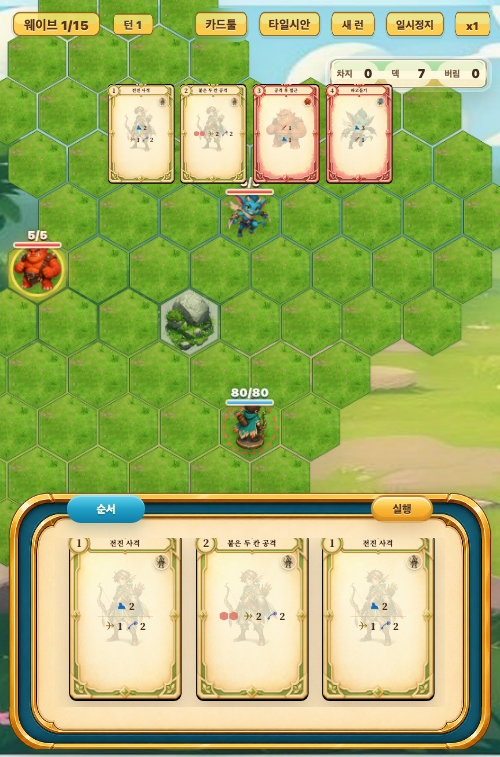
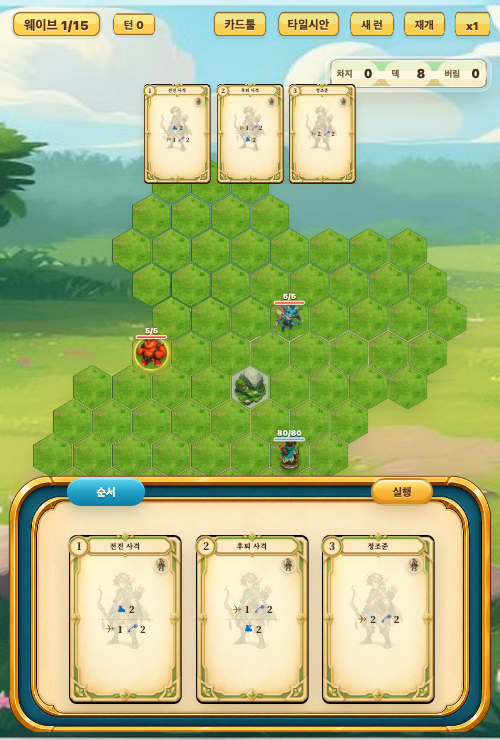
Center planner cards in board panel

diff --git a/styles.css b/styles.css
@@ -5021,6 +5021,8 @@ body {
   --planner-card-scale: 0.2;
   --planner-card-width: calc(512px * var(--planner-card-scale));
   --planner-card-height: calc(768px * var(--planner-card-scale));
+  --planner-card-slot-height: calc(var(--planner-card-height) + 22px);
+  --planner-card-offset-y: 6px;
   --planner-border-top: 52px;
   --planner-border-x: 54px;
   --planner-border-bottom: 46px;
@@ -5122,12 +5124,13 @@ body {
   z-index: 1;
   display: flex;
   gap: 8px;
-  align-items: flex-end;
+  align-items: center;
   justify-content: center;
   overflow-x: auto;
-  height: var(--planner-card-height);
-  min-height: var(--planner-card-height);
-  padding: 0 4px;
+  overflow-y: hidden;
+  height: var(--planner-card-slot-height);
+  min-height: var(--planner-card-slot-height);
+  padding: var(--planner-card-offset-y) 4px 0;
   scrollbar-width: none;
 }
 

diff --git a/index.html b/index.html
@@ -22,7 +22,7 @@
     <link rel="preload" as="image" href="assets/ui-kit/planner-panel-9slice-v1.png" />
     <link rel="preload" as="image" href="assets/casting/archer/archer-01-2d-illustration-cutout.png" />
     <link rel="preload" as="image" href="assets/characters/archer-token/archer-token-v2-front.png" />
-    <link rel="stylesheet" href="styles.css?v=20260624-planner-panel-9slice" />
+    <link rel="stylesheet" href="styles.css?v=20260624-planner-card-center" />
   </head>
   <body>
     <main class="app-shell">